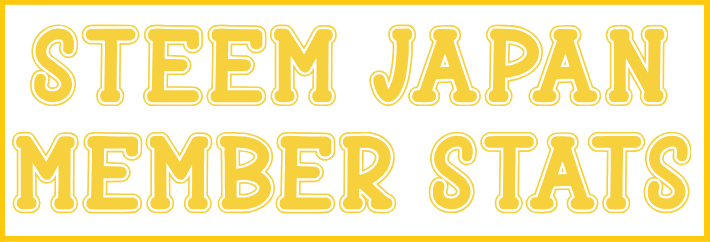
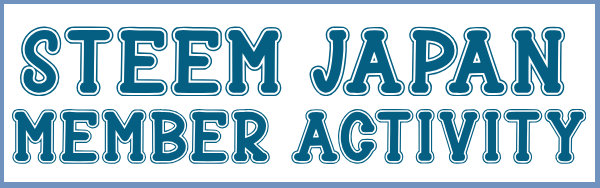
update daily report

diff --git a/tasks/steem_japan/steem_japan_report.py b/tasks/steem_japan/steem_japan_report.py
@@ -111,7 +111,7 @@ def get_main_image():
 
     # Download base image from https://picsum.photos/
     # and store as report_base.png
-    base_image_url = 'https://picsum.photos/800/500'
+    base_image_url = 'https://picsum.photos/600/427'
     urllib.request.urlretrieve(
         base_image_url, f'{img_dir}/{base_img_file}')
 
@@ -122,8 +122,8 @@ def get_main_image():
     overlay_image = Image.open(rf"{img_dir}/{overlay_img_file}")
 
     # Paste overlay_image on top of base image
-    # starting at coordinates (45, 80)
-    base_image.paste(overlay_image, (45, 80), mask=overlay_image)
+    # starting at coordinates (0, 100)
+    base_image.paste(overlay_image, (0, 100), mask=overlay_image)
 
     # Save overlay image
     base_image.save(f'{img_dir}/{main_img_file}')
@@ -147,9 +147,14 @@ def get_post_body(data):
 
     main_image = get_main_image()
 
-    stats_table = """
-| Avatar | Member | Post # | Comment # | Vote # |
+    total_posts = data['total_posts']
+    total_comments = data['total_comments']
+    total_votes = data['total_votes']
+
+    stats_table = f"""
+| Avatar | Members | Posts | Comments | Votes |
 | --- | --- | --- | --- | --- |
+|**Total #**| |**{total_posts}**|**{total_comments}**|**{total_votes}**|
     """
 
     for d in data['stats']:
@@ -163,21 +168,21 @@ def get_post_body(data):
     body = f"""
 ![]({main_image})
 
-### Steem Japan コミュニティーメンバーの活動状況デイリーレポート
-コミュニティー内で誰がどれだけアクティブに活動し、記事の投稿、他のコミュニティーメンバーにコメント・アップボートしているかなど、
-コミュニティー貢献度が一目で分かるように情報をレポート化。
+#### [Steem Japan]({community_url}) 毎日の活動状況レポート
+コミュニティーに記事を投稿しているメンバーのアクティビティです。
+コミュニティーページへ投稿、他のコミュニティーメンバーへのコメント・アップボートなど、コミュニティー貢献度が分かるように情報をレポート化。
 
-## [Steem Japan]({community_url}) Members Daily Activities
+#### [Steem Japan]({community_url}) Members Total Activities
 * Total Posts: {data['total_posts']}
 * Total Comments: {data['total_comments']}
 * Total Votes: {data['total_votes']}
 
 **投稿メンバーのアクティビティー情報**
-**Active Posting Members Info**
+**-- Active Posting Members Stats --**
 
 {stats_table}
 
-**今後のコンテストにはコミュニティーメンバーの活動状況が考慮されるかも🤔**
+#### 今後のアップボートやコンテストなどに、コミュニティーメンバーの活動状況が考慮されるかも？🤔
 
 ---
 ### * Follow @japansteemit community curation trail
